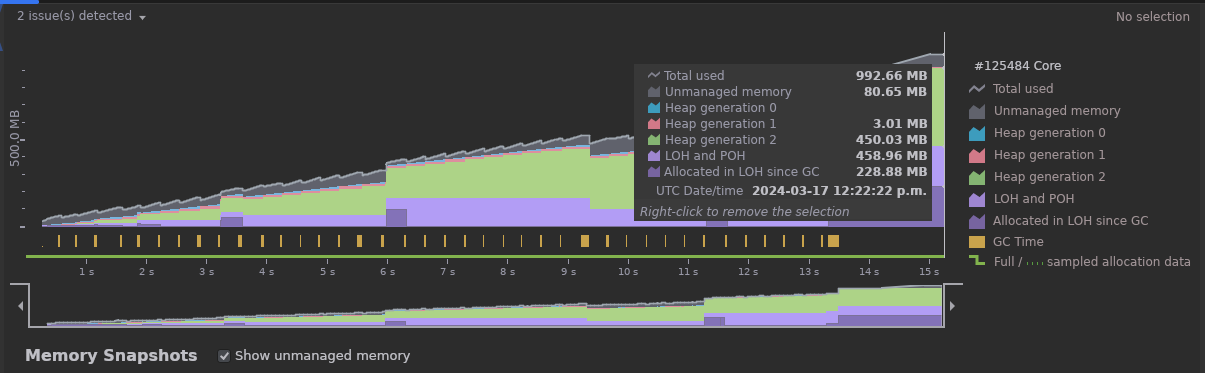
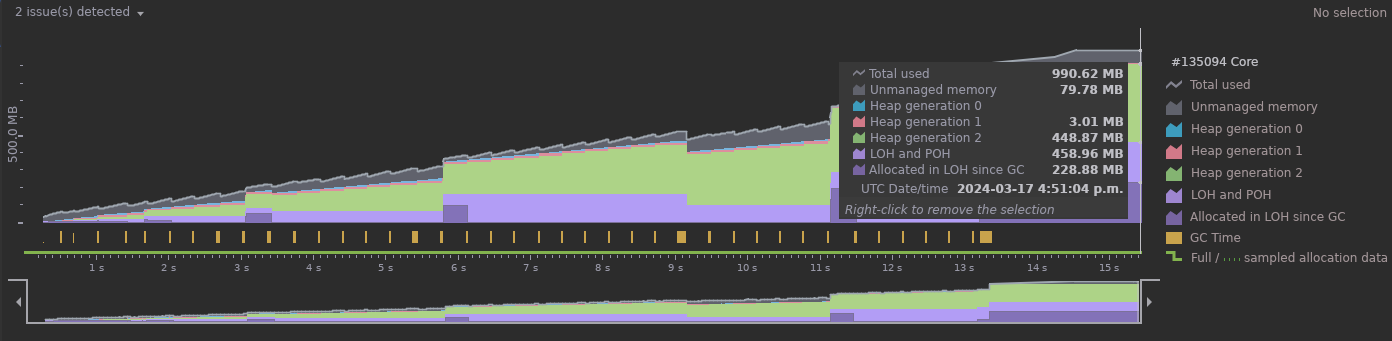
Added a functional implementation

diff --git a/Core.Tests/FunctionalDictionaryTest.cs b/Core.Tests/FunctionalDictionaryTest.cs
@@ -1,0 +1,58 @@
+using System.Collections.Generic;
+using System.Linq;
+using Core;
+using JetBrains.Annotations;
+using Microsoft.VisualStudio.TestTools.UnitTesting;
+
+namespace Core.Tests;
+
+[TestClass]
+[TestSubject(typeof(FunctionalDictionary))]
+public class FunctionalDictionaryTest
+{
+    
+    [TestMethod]
+    [ExpectedException(typeof(Core.Exceptions.IncompatibleLengthException))]
+    public void IncompatibleListsLength()
+    {
+        var keys = new List<string>() { "a", "b", "c" };
+        var values = new List<int>() { 1, 2 };
+        _ = FunctionalDictionary.GetDictionary(keys: keys, values: values);
+    }
+    
+    [TestMethod]
+    [ExpectedException(typeof(Core.Exceptions.DuplicateKeyExceptions))]
+    public void DuplicateKey()
+    {
+        var keys = new List<string>() { "a", "a", "c" };
+        var values = new List<int>() { 1, 2, 3 };
+        _ = FunctionalDictionary.GetDictionary(keys: keys, values: values);
+    }
+    
+    [TestMethod]
+    [ExpectedException(typeof(Core.Exceptions.EmptyKeyExceptions))]
+    public void EmptyKey()
+    {
+        var keys = new List<string>() { "a", " ", "c" };
+        var values = new List<int>() { 1, 2, 3 };
+        _ = FunctionalDictionary.GetDictionary(keys: keys, values: values);
+    }
+    
+    [TestMethod]
+    public void LongList()
+    {
+        List<string> keys = new List<string>();
+        List<int> values = new List<int>();
+
+        var upperLimit = 10000000;
+        for (var index = 0; index <= upperLimit; index++)
+        {
+            keys.Add($"key{index}");
+            values.Add(index);
+        }
+        var result = FunctionalDictionary.GetDictionary(keys: keys, values: values);
+        
+        Assert.AreEqual(result.Keys.Count,keys.Count);
+        Assert.AreEqual(result[$"key{upperLimit - 1}"], upperLimit - 1);
+    }
+}

diff --git a/Core/FunctionalDictionary.cs b/Core/FunctionalDictionary.cs
@@ -1,0 +1,49 @@
+using System.Runtime.InteropServices.JavaScript;
+
+namespace Core;
+using Core.Exceptions;
+
+public static class FunctionalDictionary
+{
+    public static IDictionary<string, int> GetDictionary(IEnumerable<string> keys, IEnumerable<int> values)
+    {
+        // Validate compatible length
+        var enumerableKeys = keys as string[] ?? keys.ToArray();
+        var keysLength = enumerableKeys.Length;
+        
+        var enumerableValues = values as int[] ?? values.ToArray();
+        
+        var valuesLength = enumerableValues.Length;
+        if (keysLength != valuesLength)
+            throw new IncompatibleLengthException(leftLength:keysLength, rightLength:valuesLength);
+
+        // Validate no duplicate key
+        var firstDuplicateKey = enumerableKeys
+            .GroupBy(key => key)
+            .SelectMany(g => g.Skip(1))
+            .FirstOrDefault();
+        
+        if (firstDuplicateKey != null) {
+            throw new DuplicateKeyExceptions(firstDuplicateKey);
+        }
+       
+        // Validate no empty key
+        if (enumerableKeys.Any(key => string.IsNullOrEmpty(key) || string.IsNullOrWhiteSpace(key)))
+        {
+            throw new EmptyKeyExceptions(
+                enumerableKeys
+                    .Select((key, position) => new {Key = key, Position = position})
+                    .First()
+                    .Position
+                );
+        }
+
+        // Generate Dictionary
+        var output =
+            enumerableKeys.Zip(
+                    enumerableValues, (key, value) => new { key, value})
+                .ToDictionary(item => item.key, item => item.value);
+
+        return output;
+    }
+}

diff --git a/Core.Profiler/Program.cs b/Core.Profiler/Program.cs
@@ -2,34 +2,16 @@
 
 Console.WriteLine("Profile traditional dictionary");
 
-void ProfileTraditionalDictionary()
+var upperLimit = 10000000;
+List<string> keys = new List<string>();
+List<int> values = new List<int>();
+    
+for (var index = 0; index <= upperLimit; index++)
 {
-    List<string> keys = new List<string>();
-    List<int> values = new List<int>();
-
-    var upperLimit = 10000000;
-    for (var index = 0; index <= upperLimit; index++)
-    {
-        keys.Add($"key{index}");
-        values.Add(index);
-    }
-    _ = (new TraditionalDictionary()).GetDictionary(keys: keys, values: values);
+    keys.Add($"key{index}");
+    values.Add(index);
 }
-ProfileTraditionalDictionary();
 
-Console.WriteLine("Profile modern dictionary");
-
-void ProfileModernDictionary()
-{
-    List<string> keys = new List<string>();
-    List<int> values = new List<int>();
-
-    var upperLimit = 10000000;
-    for (var index = 0; index <= upperLimit; index++)
-    {
-        keys.Add($"key{index}");
-        values.Add(index);
-    }
-    _ = (new ModernDictionary()).GetDictionary(keys: keys, values: values);
-}
-//ProfileModernDictionary();
+//_ = (new TraditionalDictionary()).GetDictionary(keys: keys, values: values);
+//_ = (new ModernDictionary()).GetDictionary(keys: keys, values: values);
+_ = FunctionalDictionary.GetDictionary(keys: keys, values: values);

diff --git a/readme.md b/readme.md
@@ -9,9 +9,10 @@
 
 ## Method Used
 
-- Implement two versions of the code:
+- Implement three versions of the code:
   - [Traditional](Core/TraditionalDictionary.cs) 
-  - and [Modern](Core/ModernDictionary.cs)
+  - [Modern](Core/ModernDictionary.cs)
+  - [Functional](Core/FunctionalDictionary.cs)
 - Run a profile to compare timeline and memory allocation
 - JetBrain Rider Profiler on Ubuntu 22.04 was used for testing purposes
   - 16 Cores 11th Gen Intel(R) Core(TM) i7-11850H @ 2.50GHz
@@ -19,7 +20,7 @@
 
 ## Findings
 
-- Traditional & Modern timeline profiler results
+- Timeline profiler results
 ![](media/timeline.png)
 
 - Traditional memory allocation profiler results
@@ -28,9 +29,12 @@
 - Modern memory allocation profiler results
   ![](media/memory-modern.png)
 
+- Functional memory allocation profiler results
+  ![](media/memory-functional.png)
+- 
 ## Conclusions
 
-- To my surprise it is not in favour of modern implementation
-- The traditional was about 5 times faster than the modern
-- The traditional consumed less than half the memory of the modern
-- Have I missed something optimizing the modern approach?
+- To my surprise it is not in favour of modern nor functional implementation
+- The traditional was about 5 times faster than the modern or functional
+- The traditional consumed less than half the memory of the modern or functional
+- Have I missed something optimizing the modern or the functional approach?
